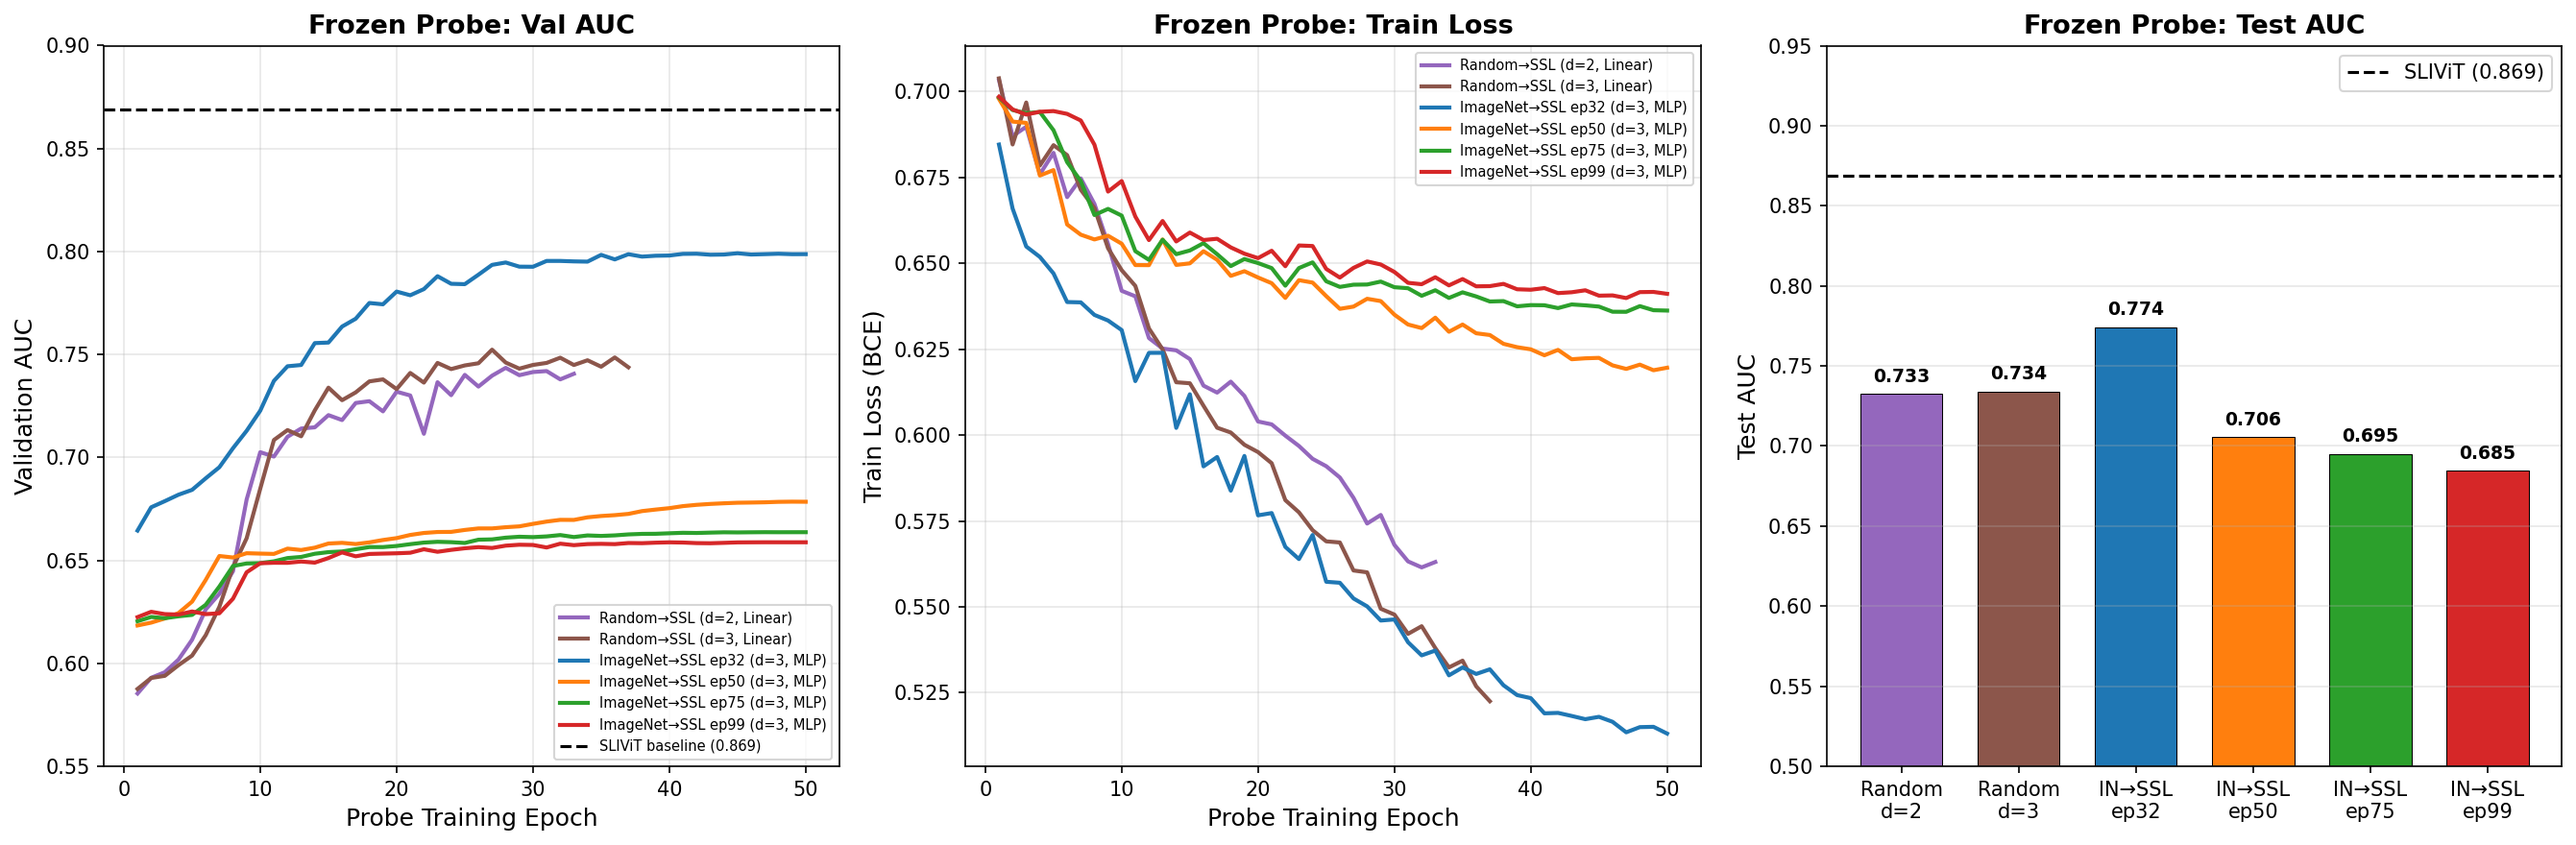
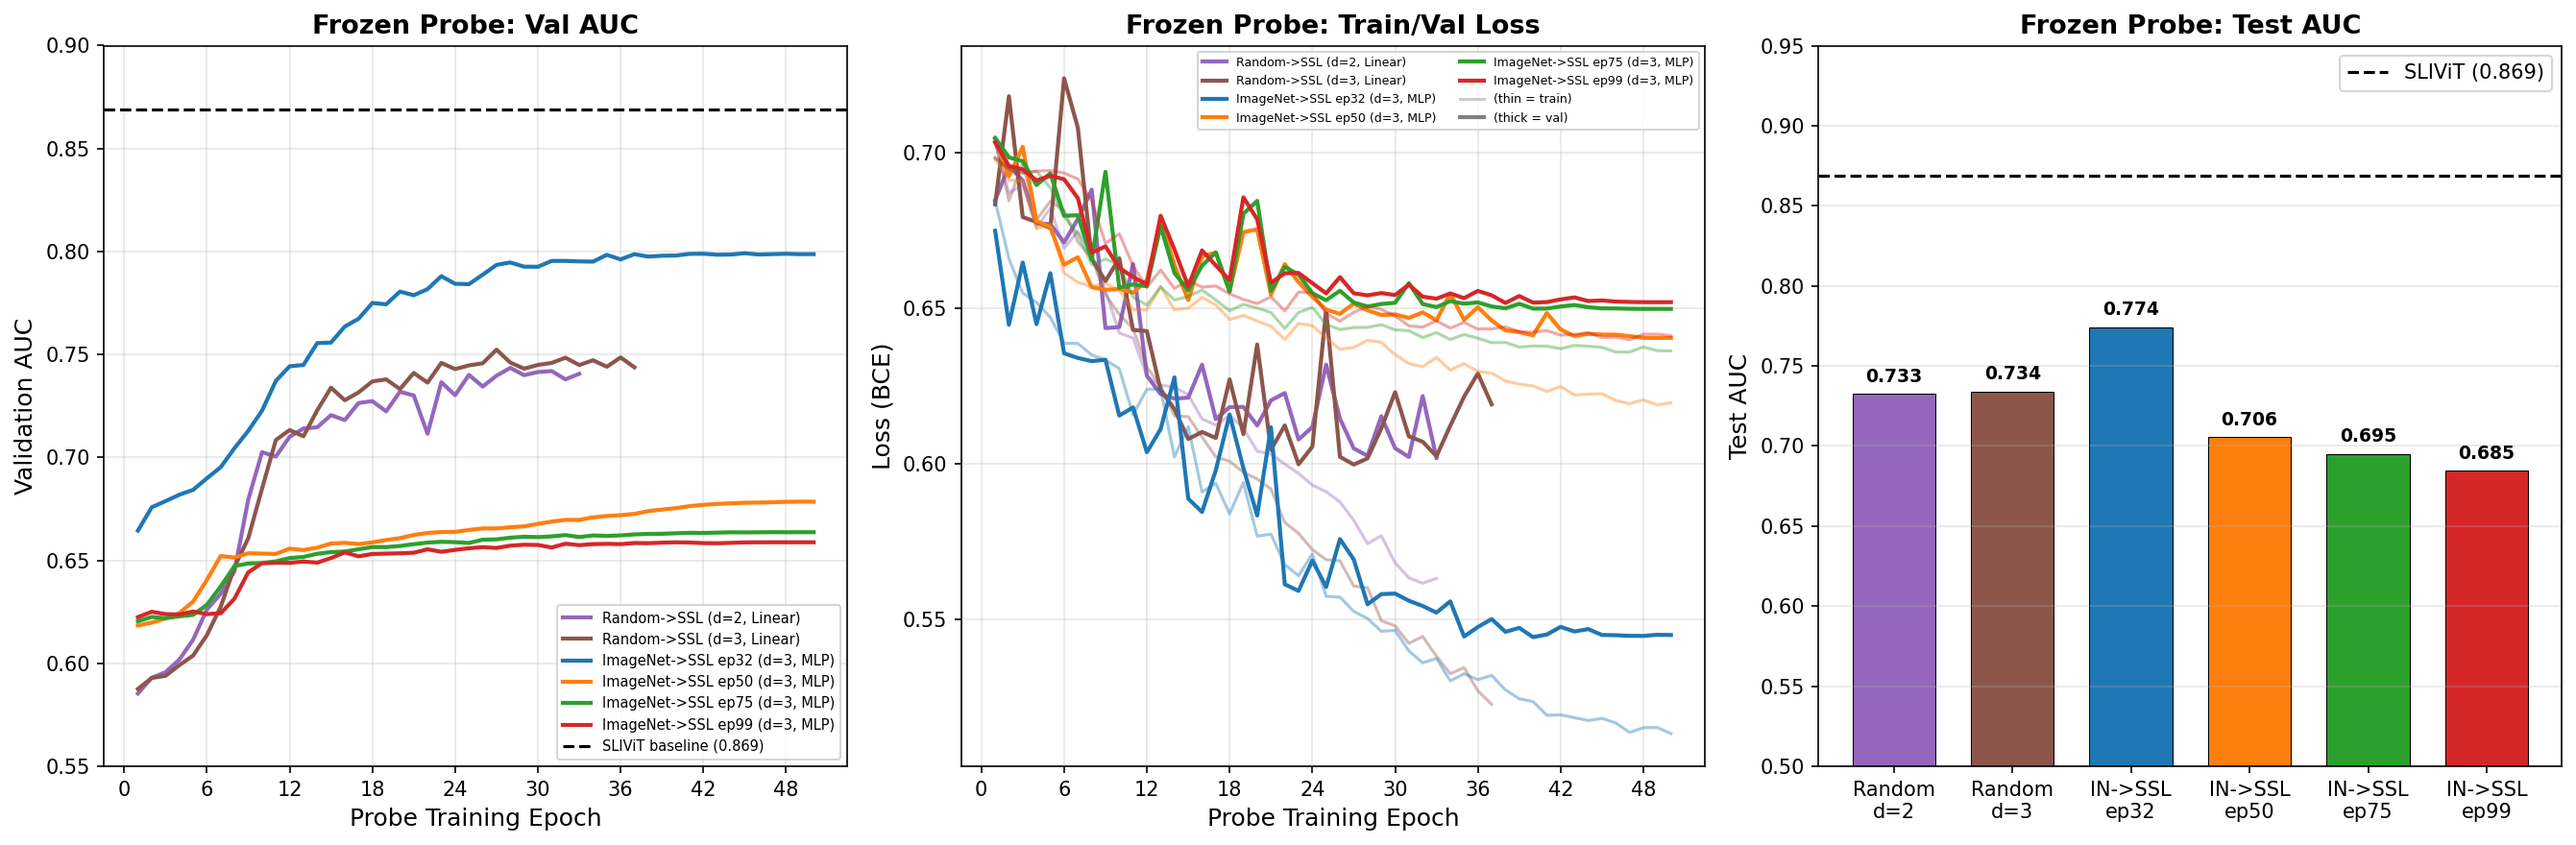
Fix graphs: combine pretraining loss, integer ticks, train+val loss
- Pretraining loss: combine 3 jobs into one continuous ep1-100 curve
  with job boundaries marked and best checkpoint annotated
- Frozen probe: show both train (thin) and val (thick) loss to reveal
  overfitting gap instead of just train loss
- All graphs: force integer x-axis ticks (was showing 2.5, 5.0, 7.5)
- Add scripts/regenerate_plots.py for reproducible graph generation
- Fix pretraining README: ImageNet-init ep32 is best encoder (0.828)

diff --git a/scripts/regenerate_plots.py b/scripts/regenerate_plots.py
@@ -1,0 +1,203 @@
+"""Regenerate all comparison plots for the experiment docs."""
+import os, json, csv
+import matplotlib
+matplotlib.use('Agg')
+import matplotlib.pyplot as plt
+from matplotlib.ticker import MaxNLocator
+import numpy as np
+
+base = os.path.dirname(os.path.dirname(os.path.abspath(__file__)))
+results_dir = os.path.join(base, 'results')
+downstream_dir = os.path.join(results_dir, 'downstream')
+pretrain_dir = os.path.join(results_dir, 'pretraining')
+
+# ============================================================
+# 1. Pretraining loss: ONE combined graph (ep1-100)
+# ============================================================
+print("=== Generating combined pretraining loss graph ===")
+
+all_epoch_loss = {}
+for run_name in ['pretrain_imagenet_init', 'pretrain_warmrestart', 'pretrain_random_100ep']:
+    log_path = os.path.join(pretrain_dir, run_name, 'jepa_patch-log.csv')
+    with open(log_path) as f:
+        reader = csv.DictReader(f)
+        for r in reader:
+            ep = int(r.get('epoch', 0))
+            loss = float(r.get('loss', 0))
+            if ep not in all_epoch_loss:
+                all_epoch_loss[ep] = []
+            all_epoch_loss[ep].append(loss)
+
+epochs_sorted = sorted(all_epoch_loss.keys())
+avg_losses = [np.mean(all_epoch_loss[ep]) for ep in epochs_sorted]
+
+fig, ax = plt.subplots(1, 1, figsize=(10, 5))
+ax.plot(epochs_sorted, avg_losses, color='#1f77b4', linewidth=2)
+
+# Mark job boundaries
+ax.axvline(x=20.5, color='gray', linestyle=':', linewidth=1, alpha=0.5)
+ax.axvline(x=30.5, color='gray', linestyle=':', linewidth=1, alpha=0.5)
+ymax = max(avg_losses) * 1.02
+ax.text(10, ymax, 'Job 1\n(ImageNet init)', ha='center', fontsize=9, color='gray')
+ax.text(25.5, ymax, 'Job 2\n(resume)', ha='center', fontsize=9, color='gray')
+ax.text(66, ymax, 'Job 3 (resume, 100 ep target)', ha='center', fontsize=9, color='gray')
+
+# Mark best checkpoint (ep32)
+best_ep = 32
+best_loss = np.mean(all_epoch_loss[best_ep])
+ax.plot(best_ep, best_loss, 'r*', markersize=15, zorder=5)
+ax.annotate(
+    'Best ckpt (ep32)\n0.774 frozen / 0.828 fine-tune',
+    (best_ep, best_loss), textcoords="offset points", xytext=(60, -25),
+    fontsize=9, color='red', arrowprops=dict(arrowstyle='->', color='red'))
+
+ax.set_xlabel('Epoch', fontsize=12)
+ax.set_ylabel('I-JEPA Loss (Smooth L1)', fontsize=12)
+ax.set_title('ImageNet-init I-JEPA Pretraining (Combined)', fontsize=14, fontweight='bold')
+ax.xaxis.set_major_locator(MaxNLocator(integer=True))
+ax.grid(True, alpha=0.3)
+ax.set_xlim(0, 102)
+
+plt.tight_layout()
+plt.savefig(os.path.join(results_dir, 'pretraining_loss.png'), dpi=150, bbox_inches='tight')
+print('  Saved pretraining_loss.png')
+plt.close()
+
+# ============================================================
+# 2. Frozen probe comparison (3 panels)
+# ============================================================
+print("=== Regenerating frozen probe comparison ===")
+
+all_logs = {}
+all_results = {}
+run_ids = [
+    'frozen_random_d2_s100', 'frozen_random_d3_s100',
+    'frozen_imagenet_ep32_d3_s100', 'frozen_imagenet_ep50_d3_s100',
+    'frozen_imagenet_ep75_d3_s100', 'frozen_imagenet_ep99_d3_s100',
+]
+
+for run_id in run_ids:
+    log_path = os.path.join(downstream_dir, run_id, 'train_log.csv')
+    res_path = os.path.join(downstream_dir, run_id, 'results.json')
+    if os.path.exists(log_path):
+        with open(log_path) as f:
+            all_logs[run_id] = list(csv.DictReader(f))
+    if os.path.exists(res_path):
+        with open(res_path) as f:
+            all_results[run_id] = json.loads(f.read())
+
+display_names = {
+    'frozen_random_d2_s100': 'Random->SSL (d=2, Linear)',
+    'frozen_random_d3_s100': 'Random->SSL (d=3, Linear)',
+    'frozen_imagenet_ep32_d3_s100': 'ImageNet->SSL ep32 (d=3, MLP)',
+    'frozen_imagenet_ep50_d3_s100': 'ImageNet->SSL ep50 (d=3, MLP)',
+    'frozen_imagenet_ep75_d3_s100': 'ImageNet->SSL ep75 (d=3, MLP)',
+    'frozen_imagenet_ep99_d3_s100': 'ImageNet->SSL ep99 (d=3, MLP)',
+}
+
+colors = {
+    'frozen_random_d2_s100': '#9467bd',
+    'frozen_random_d3_s100': '#8c564b',
+    'frozen_imagenet_ep32_d3_s100': '#1f77b4',
+    'frozen_imagenet_ep50_d3_s100': '#ff7f0e',
+    'frozen_imagenet_ep75_d3_s100': '#2ca02c',
+    'frozen_imagenet_ep99_d3_s100': '#d62728',
+}
+
+fig, axes = plt.subplots(1, 3, figsize=(18, 6))
+
+# Panel 1: Val AUC
+ax = axes[0]
+for run_id in run_ids:
+    if run_id not in all_logs:
+        continue
+    rows = all_logs[run_id]
+    epochs = [int(r['epoch']) for r in rows]
+    val_auc = [float(r['val_auc']) for r in rows]
+    ax.plot(epochs, val_auc, label=display_names[run_id], color=colors[run_id], linewidth=2)
+ax.axhline(y=0.869, color='black', linestyle='--', linewidth=1.5, label='SLIViT baseline (0.869)')
+ax.set_xlabel('Probe Training Epoch', fontsize=12)
+ax.set_ylabel('Validation AUC', fontsize=12)
+ax.set_title('Frozen Probe: Val AUC', fontsize=13, fontweight='bold')
+ax.legend(fontsize=7, loc='lower right')
+ax.grid(True, alpha=0.3)
+ax.set_ylim(0.55, 0.90)
+ax.xaxis.set_major_locator(MaxNLocator(integer=True))
+
+# Panel 2: Train vs Val loss (shows overfitting gap)
+ax = axes[1]
+for run_id in run_ids:
+    if run_id not in all_logs:
+        continue
+    rows = all_logs[run_id]
+    epochs = [int(r['epoch']) for r in rows]
+    train_loss = [float(r['train_loss']) for r in rows]
+    val_loss = [float(r['val_loss']) for r in rows]
+    ax.plot(epochs, train_loss, color=colors[run_id], linewidth=1.5, alpha=0.4)
+    ax.plot(epochs, val_loss, color=colors[run_id], linewidth=2,
+            label=display_names[run_id])
+# Add a legend note
+ax.plot([], [], color='gray', linewidth=1.5, alpha=0.4, label='(thin = train)')
+ax.plot([], [], color='gray', linewidth=2, label='(thick = val)')
+ax.set_xlabel('Probe Training Epoch', fontsize=12)
+ax.set_ylabel('Loss (BCE)', fontsize=12)
+ax.set_title('Frozen Probe: Train/Val Loss', fontsize=13, fontweight='bold')
+ax.legend(fontsize=6, loc='upper right', ncol=2)
+ax.grid(True, alpha=0.3)
+ax.xaxis.set_major_locator(MaxNLocator(integer=True))
+
+# Panel 3: Test AUC bars
+ax = axes[2]
+bar_labels = ['Random\nd=2', 'Random\nd=3', 'IN->SSL\nep32', 'IN->SSL\nep50', 'IN->SSL\nep75', 'IN->SSL\nep99']
+test_aucs = [all_results[r]['test_auc'] for r in run_ids]
+bar_colors = [colors[r] for r in run_ids]
+bars = ax.bar(bar_labels, test_aucs, color=bar_colors, edgecolor='black', linewidth=0.5, width=0.7)
+ax.axhline(y=0.869, color='black', linestyle='--', linewidth=1.5, label='SLIViT (0.869)')
+for bar, val in zip(bars, test_aucs):
+    ax.text(bar.get_x() + bar.get_width()/2., bar.get_height() + 0.005,
+            f'{val:.3f}', ha='center', va='bottom', fontsize=9, fontweight='bold')
+ax.set_ylabel('Test AUC', fontsize=12)
+ax.set_title('Frozen Probe: Test AUC', fontsize=13, fontweight='bold')
+ax.legend(fontsize=10)
+ax.set_ylim(0.5, 0.95)
+ax.grid(True, alpha=0.3, axis='y')
+
+plt.tight_layout()
+plt.savefig(os.path.join(results_dir, 'frozen_probe_comparison.png'), dpi=150, bbox_inches='tight')
+print('  Saved frozen_probe_comparison.png')
+plt.close()
+
+# ============================================================
+# 3. Degradation plot — integer ticks
+# ============================================================
+print("=== Regenerating degradation plot ===")
+
+fig, ax = plt.subplots(1, 1, figsize=(8, 5))
+pretrain_epochs = [32, 50, 75, 99]
+epoch_runs = ['frozen_imagenet_ep32_d3_s100', 'frozen_imagenet_ep50_d3_s100',
+              'frozen_imagenet_ep75_d3_s100', 'frozen_imagenet_ep99_d3_s100']
+test_by_ep = [all_results[r]['test_auc'] for r in epoch_runs]
+
+ax.plot(pretrain_epochs, test_by_ep, 'o-', color='#1f77b4', linewidth=2.5, markersize=10, label='ImageNet->SSL (frozen d=3)')
+ax.axhline(y=0.734, color='#9467bd', linestyle='--', linewidth=1.5, label='Random->SSL frozen d=3 (0.734)')
+ax.axhline(y=0.869, color='black', linestyle='--', linewidth=1.5, label='SLIViT baseline (0.869)')
+
+for ep, auc in zip(pretrain_epochs, test_by_ep):
+    ax.annotate(f'{auc:.3f}', (ep, auc), textcoords="offset points", xytext=(0, 12),
+                ha='center', fontsize=11, fontweight='bold')
+
+ax.set_xlabel('I-JEPA Pretraining Epoch (ImageNet init)', fontsize=12)
+ax.set_ylabel('Downstream Test AUC (frozen probe)', fontsize=12)
+ax.set_title('ImageNet Features Degrade with More I-JEPA Pretraining', fontsize=13, fontweight='bold')
+ax.legend(fontsize=10)
+ax.grid(True, alpha=0.3)
+ax.set_ylim(0.6, 0.95)
+ax.set_xlim(25, 105)
+ax.xaxis.set_major_locator(MaxNLocator(integer=True))
+
+plt.tight_layout()
+plt.savefig(os.path.join(results_dir, 'imagenet_degradation.png'), dpi=150, bbox_inches='tight')
+print('  Saved imagenet_degradation.png')
+plt.close()
+
+print("\n=== All graphs regenerated ===")

diff --git a/docs/experiments/pretraining/README.md b/docs/experiments/pretraining/README.md
@@ -18,4 +18,4 @@ Summary of I-JEPA pretraining runs on 600K OCT slices for glaucoma detection.
 2. **Early stopping must ignore pre-warmup epochs**: EMA target has not diverged yet at ep1, producing artificially low val_loss.
 3. **ImageNet init needs aggressive, not gentle, tuning**: Gentle LR preserves the ImageNet representation, which collapses on OCT data. Higher LR forces the model to restructure.
 4. **I-JEPA loss plateau is normal**: Pretraining loss does not correlate with downstream quality. Always evaluate with downstream probes.
-5. **Random init (Run 3) outperformed ImageNet init (Run 5) on downstream tasks**: Run 3 encoder used in F1/F2/U1/U2; Run 5 ep32 achieved 0.774 AUC frozen but ep99 degraded to 0.685.
+5. **ImageNet init (Run 5 ep32) is the best encoder**: 0.774 frozen, **0.828 fine-tune** (best result). Later epochs degrade (ep99: 0.685 frozen). Random init (Run 3) achieves 0.734 frozen / 0.819 fine-tune.
